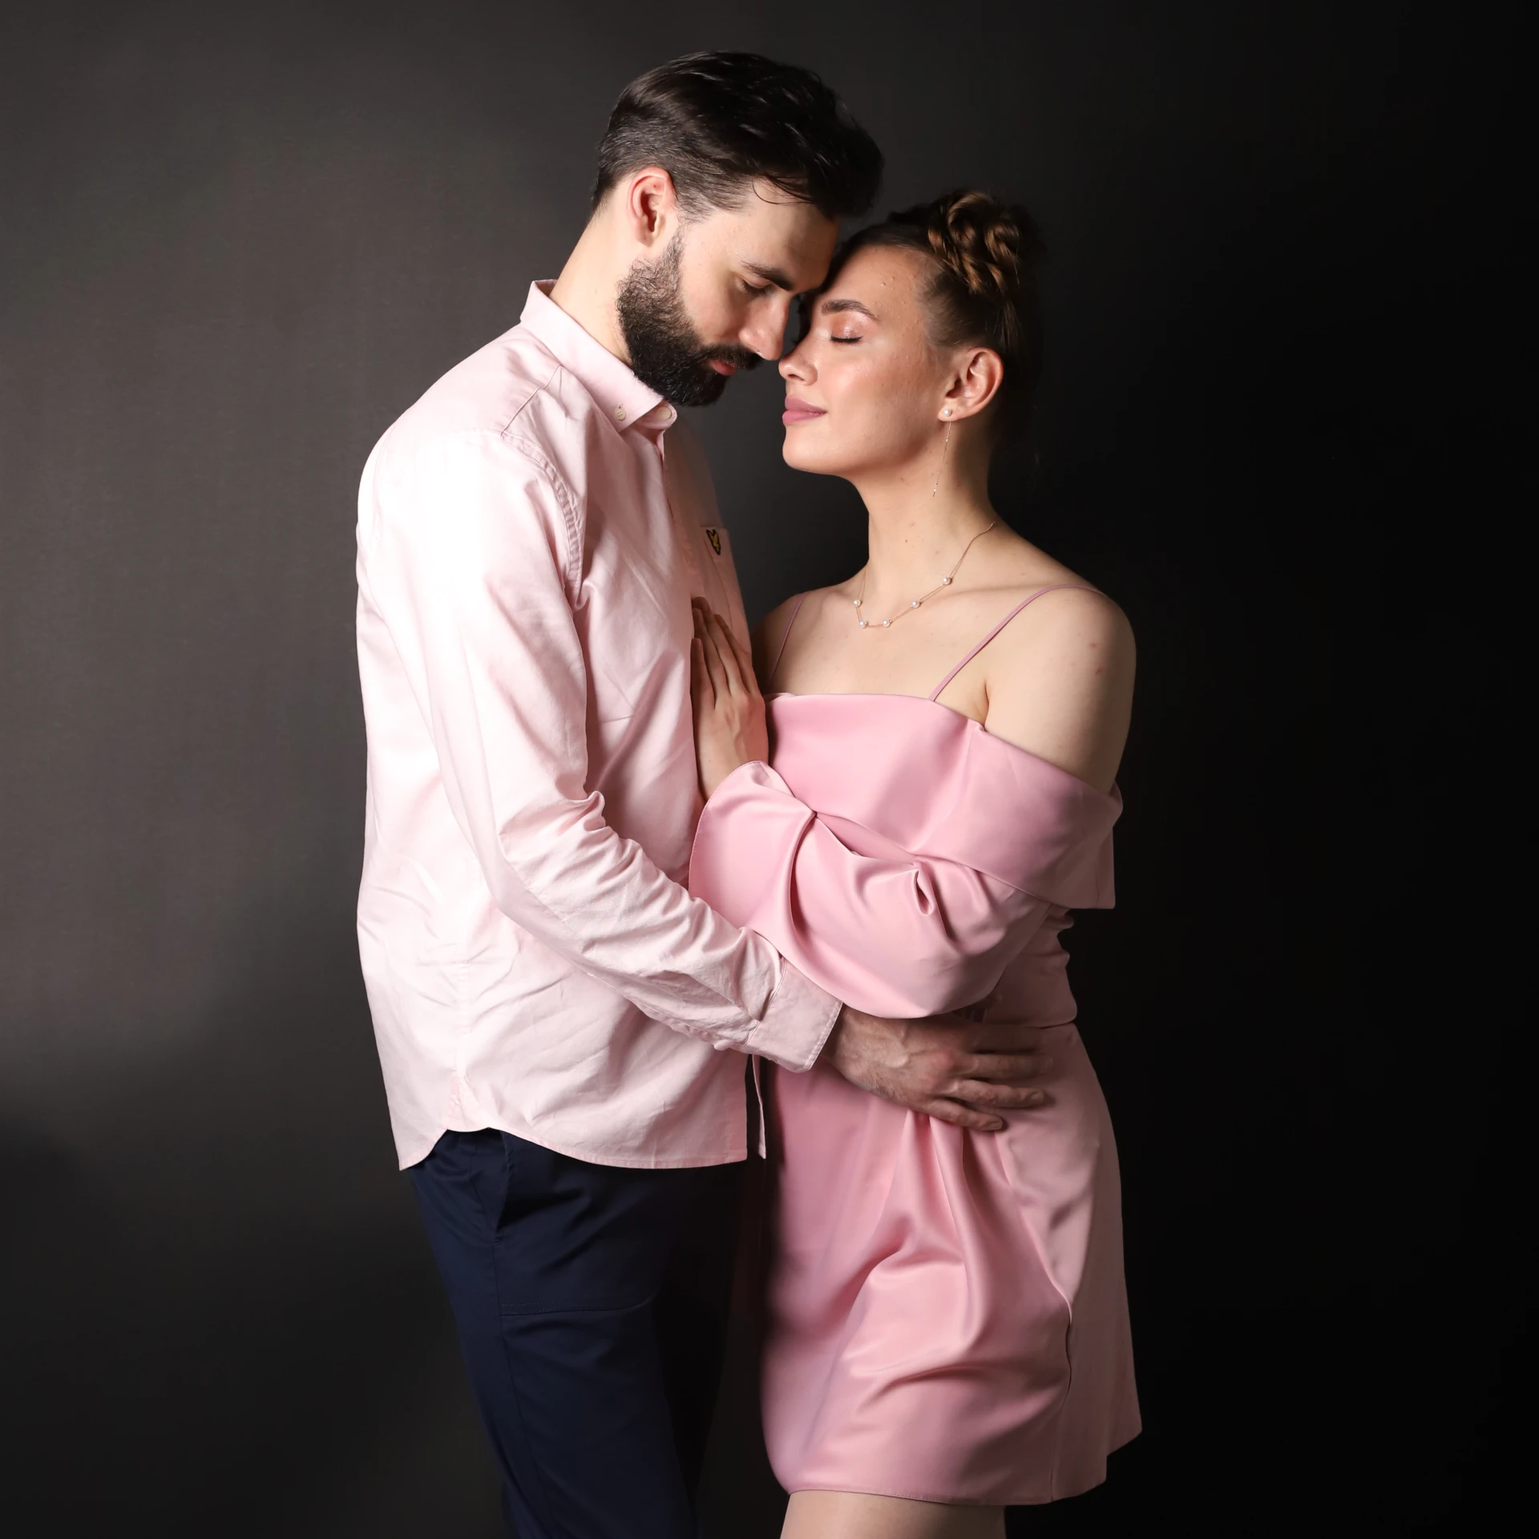
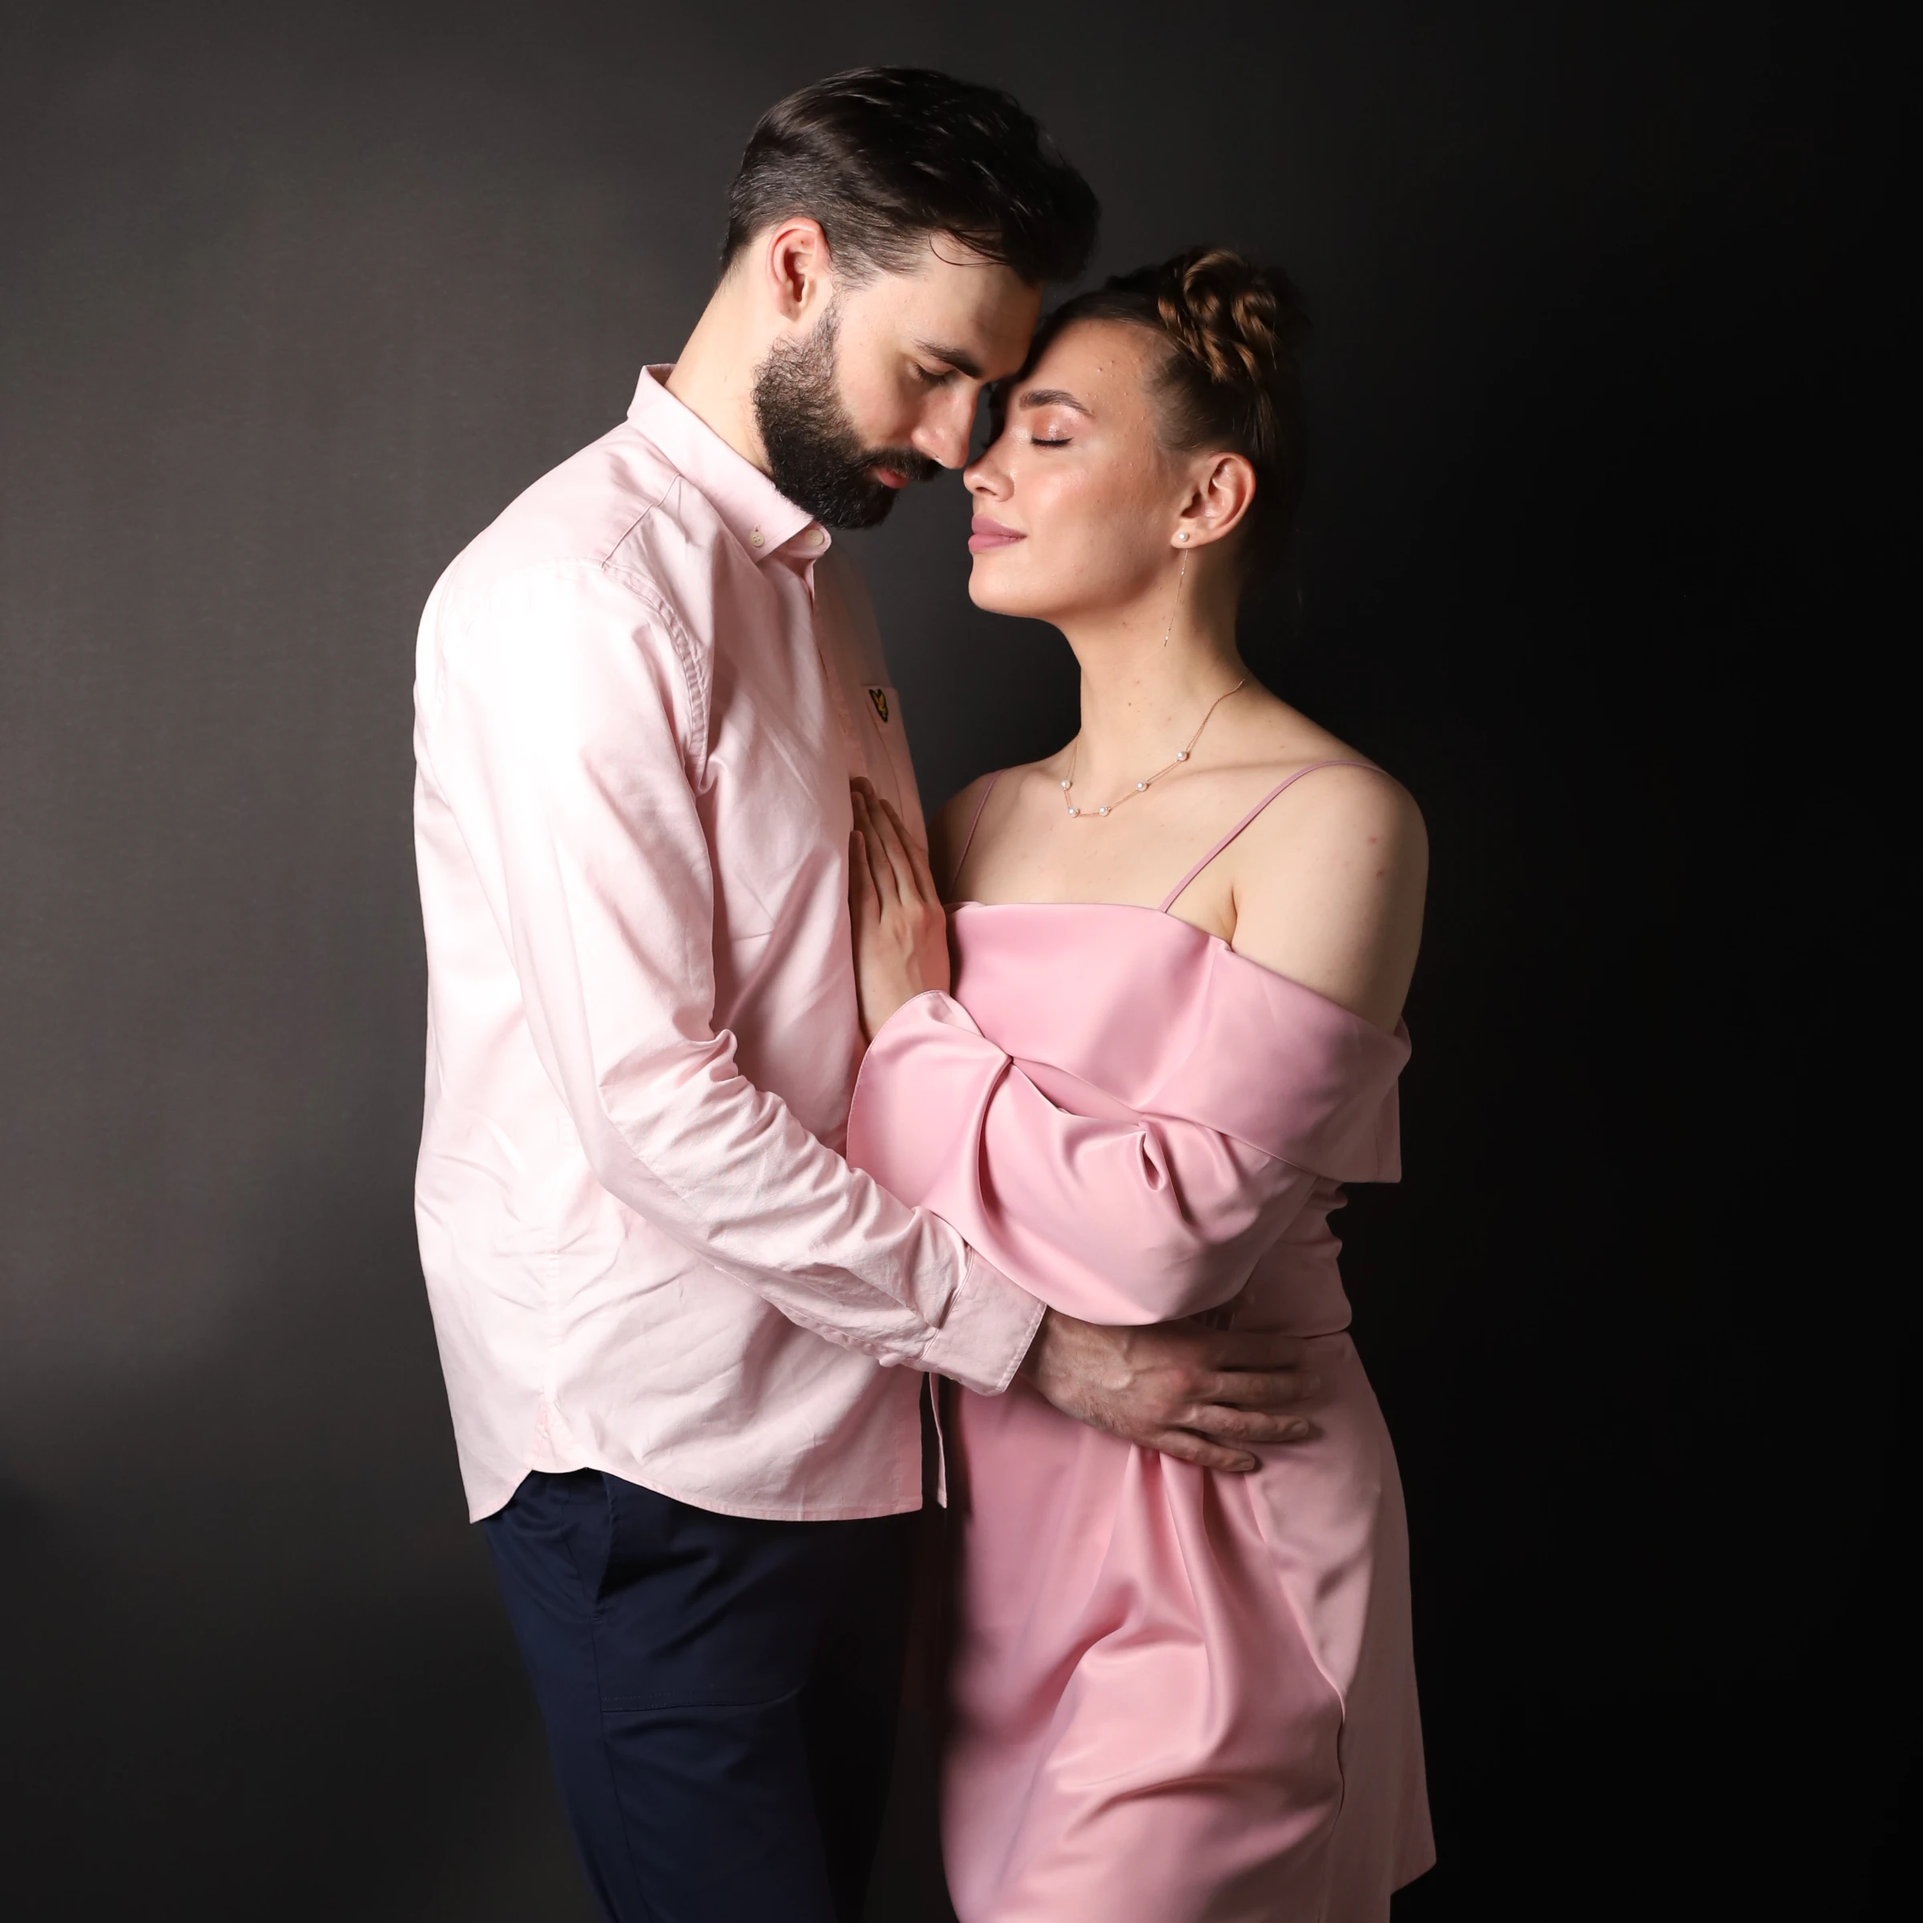
replase main photo and scroll snap

Changed region(s): [[0.1875, 0.0312, 0.75, 1.0], [0.25, 0.25, 0.2812, 0.2812]]

diff --git a/index.html b/index.html
@@ -13,7 +13,7 @@
 </head>
 
 <body>
-  <header class="hero">
+  <section class="hero">
     <div class="hero-text">
       <div class="hero-text-container">
         <div class="hero-text-element hero-text-element-left">Кристина</div>
@@ -22,7 +22,7 @@
       </div>
       <h2>В этом море любви мы наконец-то кидаем якорь.</h2>
     </div>
-  </header>
+  </section>
 
 <section class="calendar">
   <h2>Август 2025</h2>

diff --git a/style.css b/style.css
@@ -7,6 +7,7 @@ body {
   justify-content: center;
   display: flex;
   flex-direction: column;
+  scroll-snap-type: y mandatory;
 }
 
 section {
@@ -16,6 +17,7 @@ section {
   flex-direction: column;
   align-items: center;
   justify-content: center;
+  scroll-snap-align: start;
 }
 
 h1 {
